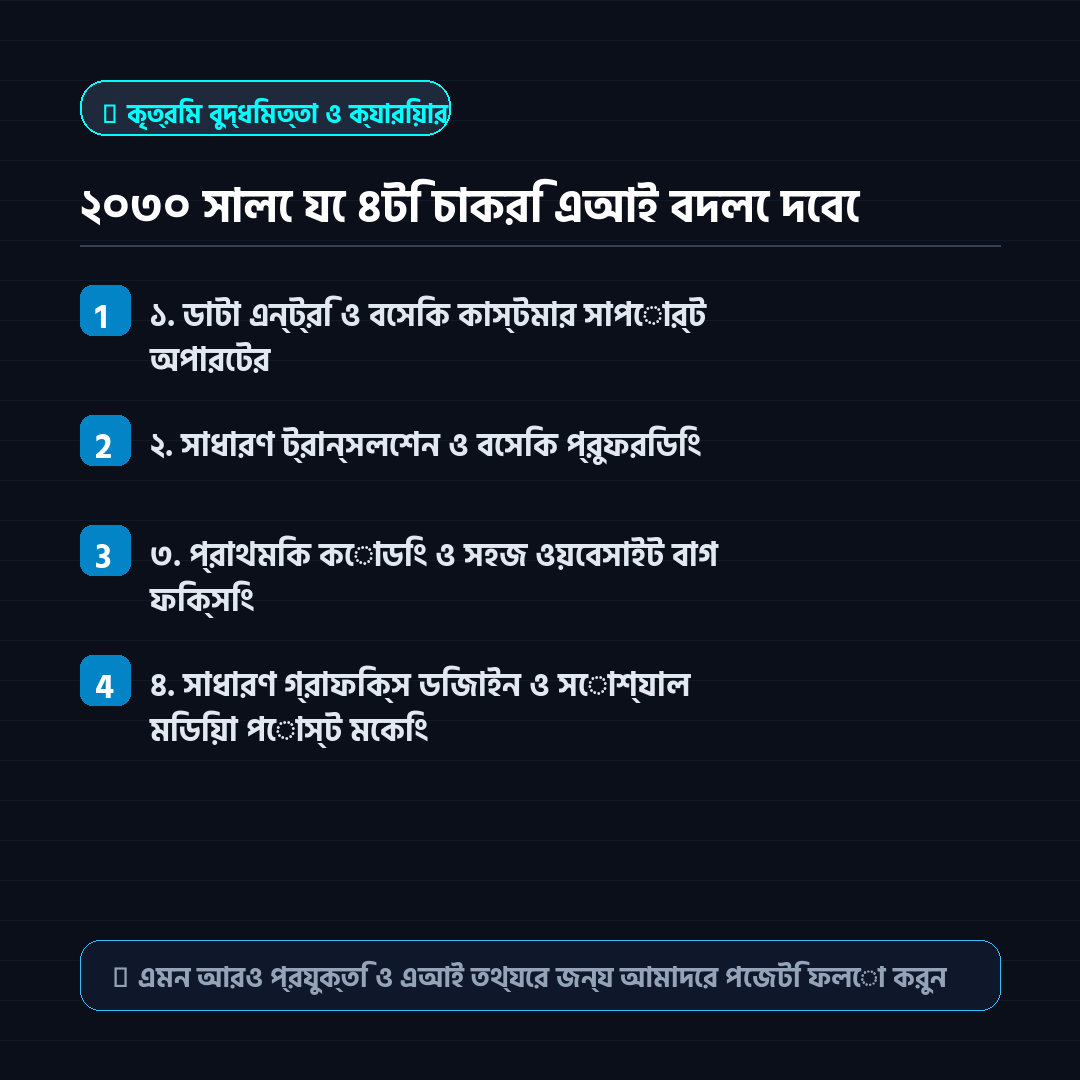
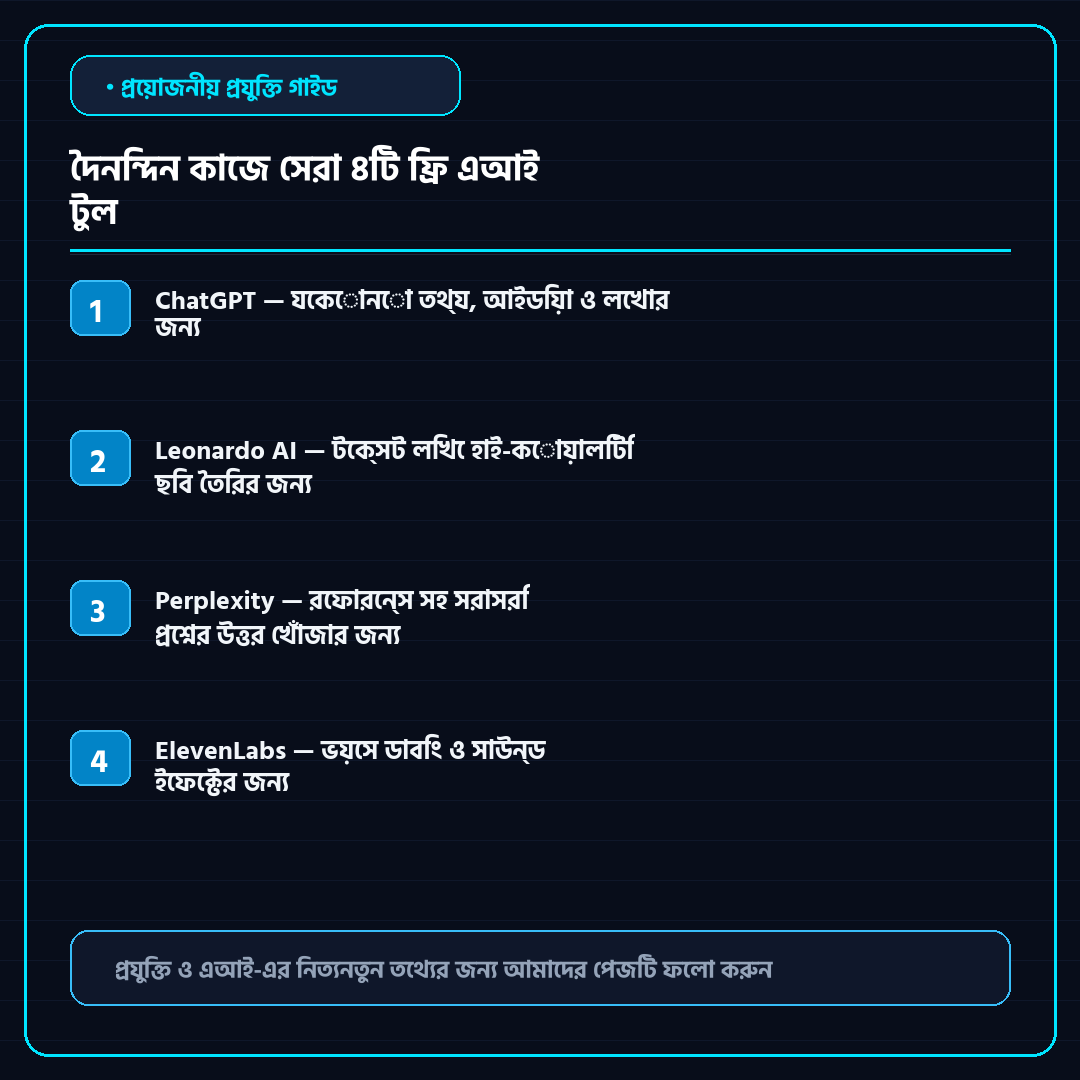
Support Fish Audio 100% free voice cloning API in voice_engine

diff --git a/voice_audio/voice_engine.py b/voice_audio/voice_engine.py
@@ -28,6 +28,8 @@ if str(BASE_DIR) not in sys.path:
 import edge_tts
 from src.config import TEMP_DIR, OUTPUT_DIR, TELEGRAM_BOT_TOKEN, TELEGRAM_CHAT_ID
 
+FISH_API_KEY = os.getenv("FISH_API_KEY", "").strip()
+FISH_VOICE_ID = os.getenv("FISH_VOICE_ID", "").strip()
 ELEVENLABS_API_KEY = os.getenv("ELEVENLABS_API_KEY", "").strip()
 ELEVENLABS_VOICE_ID = os.getenv("ELEVENLABS_VOICE_ID", "").strip()
 
@@ -90,6 +92,33 @@ async def generate_edge_tts(text: str, output_path: Path, profile_key: str = Non
     )
     await communicate.save(str(output_path))
 
+def generate_fish_audio_voice(text: str, output_path: Path) -> bool:
+    """Generate cloned user voice using Fish Audio 100% Free API."""
+    if not FISH_API_KEY or not FISH_VOICE_ID:
+        return False
+    try:
+        url = "https://api.fish.audio/v1/tts"
+        headers = {
+            "Authorization": f"Bearer {FISH_API_KEY}",
+            "Content-Type": "application/json"
+        }
+        payload = {
+            "text": text,
+            "reference_id": FISH_VOICE_ID,
+            "format": "mp3",
+            "mp3_bitrate": 192
+        }
+        res = requests.post(url, headers=headers, json=payload, timeout=45)
+        if res.status_code == 200:
+            with open(output_path, "wb") as f:
+                f.write(res.content)
+            return True
+        else:
+            print(f"[FishAudio] API error {res.status_code}: {res.text}")
+    except Exception as e:
+        print(f"[FishAudio] Request exception: {e}")
+    return False
+
 def generate_elevenlabs_voice(text: str, output_path: Path) -> bool:
     """Generate cloned user voice using ElevenLabs API."""
     if not ELEVENLABS_API_KEY or not ELEVENLABS_VOICE_ID:
@@ -125,8 +154,12 @@ def generate_voiceover_and_subtitles(scenes: list):
     for i, scene in enumerate(scenes, start=1):
         scene_audio_path = TEMP_DIR / f"scene_{i}.mp3"
 
-        # Try user's cloned voice first, fallback to Edge-TTS
-        cloned = generate_elevenlabs_voice(scene["text"], scene_audio_path)
+        # 1. Try Fish Audio (Free Cloned User Voice)
+        cloned = generate_fish_audio_voice(scene["text"], scene_audio_path)
+        # 2. Try ElevenLabs
+        if not cloned or not scene_audio_path.exists() or scene_audio_path.stat().st_size == 0:
+            cloned = generate_elevenlabs_voice(scene["text"], scene_audio_path)
+        # 3. Fallback to lively Edge-TTS
         if not cloned or not scene_audio_path.exists() or scene_audio_path.stat().st_size == 0:
             asyncio.run(generate_edge_tts(scene["text"], scene_audio_path))
 
